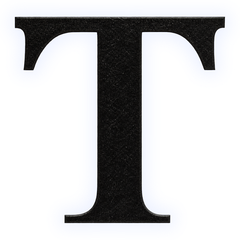
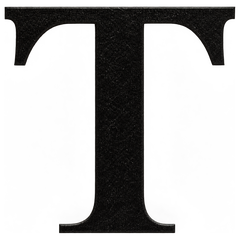
802: no aura on Line and Text; transparency kept as delivered [skip ci]
Claude-Session: https://claude.ai/code/session_01SJtkDcFnNYFPbsfPPV9jyP

Changed region(s): [[0.0, 0.0, 0.9917, 0.9917]]

diff --git a/KRIMBLE_CHANGES.md b/KRIMBLE_CHANGES.md
@@ -7862,7 +7862,7 @@ Built as 71.
 
 ## 802 — Photorealistic toolbox icon style (2026-11-21, not built)
 - Icon Style menu: a fifth choice, Photorealistic ("We should make the photorealistic icon set."). IconStyle Photorealistic = 5.
-- 33 pictures at 240 px (Gradient added 12:25; Text and Line with a light aura, Edit Path Nodes and Undo added 12:40) in krita/pics/krimble-toolbox-photo (1.7 MB, qrc prefix /krimble-toolbox-photo), cut from the full-size set in
+- 33 pictures at 240 px (Gradient added 12:25; Text, Line, Edit Path Nodes and Undo added 12:40; no aura, George's transparency kept as delivered) in krita/pics/krimble-toolbox-photo (1.7 MB, qrc prefix /krimble-toolbox-photo), cut from the full-size set in
   docs/krimble-icon-sets/photorealistic. Every tool has a photo (Free Rotate and Assistant added 12:46); a tool without one would be drawn as in Classic.
 - Undo, Quick Mask and Screen Mode show their photos (metal arrow, mask, TV) in this style; their drawn icons come back in the others.
 - Files: KrimbleToolboxIcons.h (photoIcon, hasPhoto, refreshGadget(s)), KoToolBox.cpp, KoToolBoxButton.cpp, KoToolBoxDocker.cpp, krita/CMakeLists.txt.

diff --git a/docs/krimble-icon-sets/photorealistic/README.md b/docs/krimble-icon-sets/photorealistic/README.md
@@ -61,7 +61,7 @@ toolbox (08_01 Undo, 08_02 Quick Mask, 08_03 Screen Mode). `09_xx` = future tool
 | 05_03_line.png | 23. Line |
 | 08_01_undo.png | 33. Undo (on white; cut out for the app copy) |
 
-The app copies of Text and Line have a soft light aura so the black shows on dark buttons.
+The app copies keep George's own transparency: no aura or glow is added ("Just leave my alpha channel transparency alone!!"). They are only cropped to the picture and scaled to 240 px.
 
 | 07_02_edit_path_nodes.png | 32. Edit Path Nodes (pen drawing a blue path with nodes, received 12:38; on white, cut out for the app copy; replaces the dashed square) |
 

diff --git a/KRIMBLE_CONVERSATION_LOG.md b/KRIMBLE_CONVERSATION_LOG.md
@@ -280,3 +280,5 @@ What was lost: the screenshots George sent during the day were not saved anywher
 - **12:46:** "Arrows over the photo." (Free Rotate = arrows over the painting; set complete)
 - **12:47:** "Is anything else missing?" (no)
 - **12:49:** "What do they look like on black or white?"
+- **12:51:** "The glow makes them look very artificial."
+- **12:52:** "Just leave my alpha channel transparency alone!!" (aura removed from Line and Text; app copies are only cropped and scaled)
